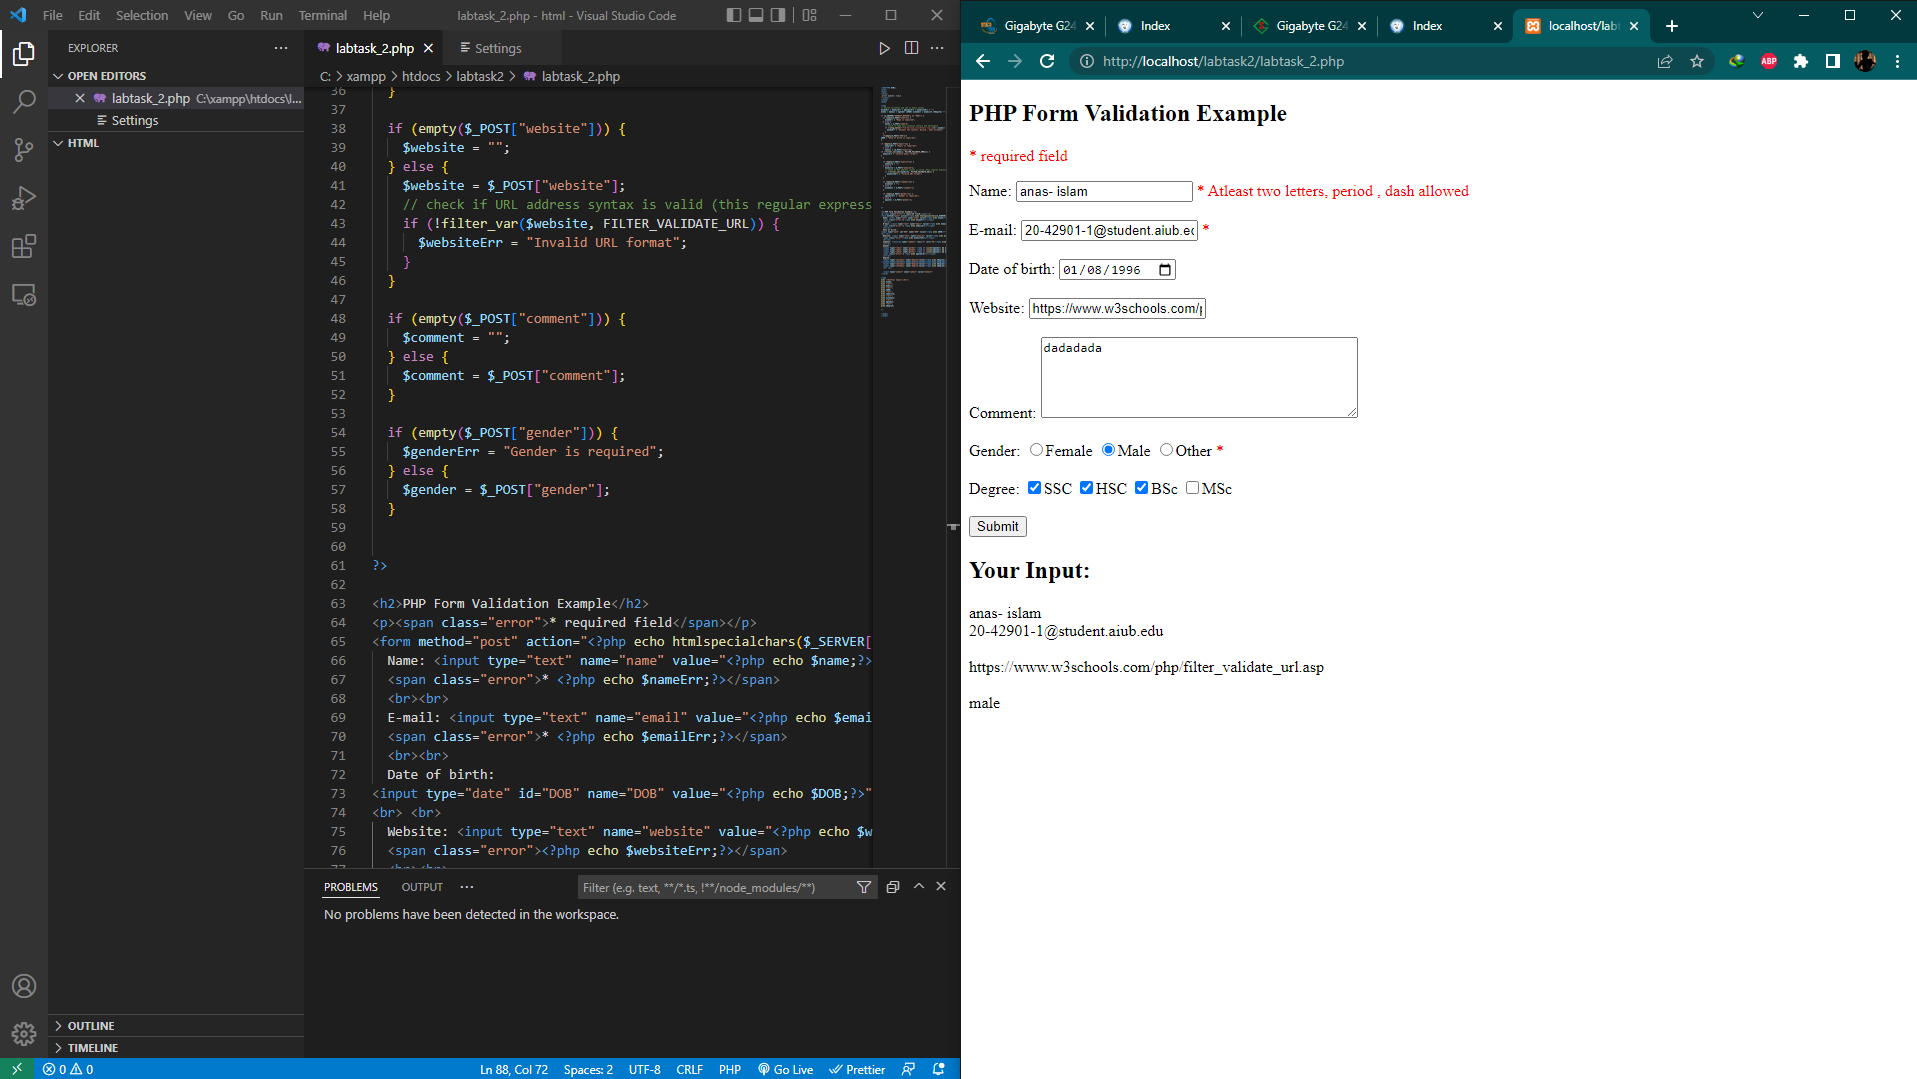
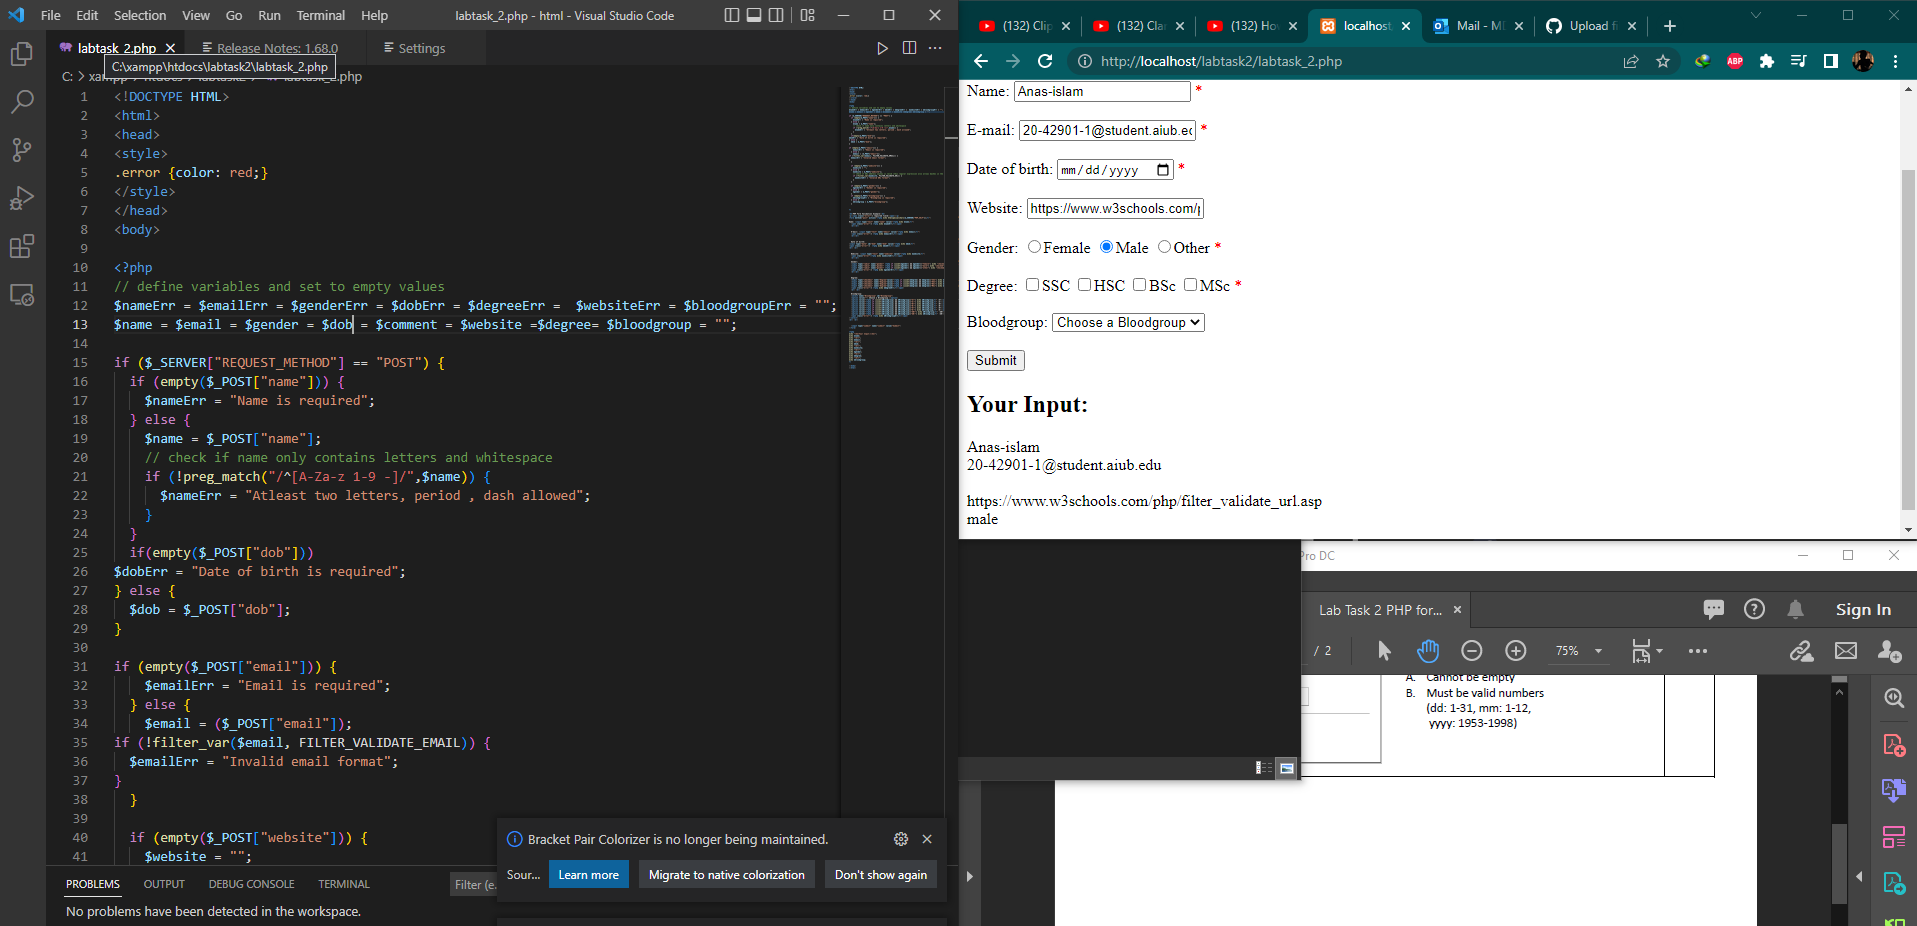
updated labtask 2 .

Changed region(s): [[0.0, 0.0, 1.0, 1.0], [0.3693, 0.3024, 0.4001, 0.3326]]

diff --git a/labtask2/labtask_2.php b/labtask2/labtask_2.php
@@ -9,8 +9,8 @@
 
 <?php
 // define variables and set to empty values
-$nameErr = $emailErr = $genderErr = $websiteErr = "";
-$name = $email = $gender =$DOB= $comment = $website =$Degree= "";
+$nameErr = $emailErr = $genderErr = $dobErr = $degreeErr =  $websiteErr = $bloodgroupErr = "";
+$name = $email = $gender = $dob = $comment = $website =$degree= $bloodgroup = "";
 
 if ($_SERVER["REQUEST_METHOD"] == "POST") {
   if (empty($_POST["name"])) {
@@ -18,12 +18,14 @@ if ($_SERVER["REQUEST_METHOD"] == "POST") {
   } else {
     $name = $_POST["name"];
     // check if name only contains letters and whitespace
-    if (!preg_match("/^[A-Za-z]{2,}(\s[A-Za-z ]{2,})*$/",$name)) {
+    if (!preg_match("/^[A-Za-z 1-9 -]/",$name)) {
       $nameErr = "Atleast two letters, period , dash allowed";
     }
   }
-  if(empty($_POST["DOB"]))
-$DOB = "Date of birth is required";
+  if(empty($_POST["dob"]))
+$dobErr = "Date of birth is required";
+} else {
+  $dob = $_POST["dob"];
 }
   
 if (empty($_POST["email"])) {
@@ -45,16 +47,15 @@ if (!filter_var($email, FILTER_VALIDATE_EMAIL)) {
     }
   }
 
-  if (empty($_POST["comment"])) {
-    $comment = "";
-  } else {
-    $comment = $_POST["comment"];
-  }
-
   if (empty($_POST["gender"])) {
     $genderErr = "Gender is required";
   } else {
     $gender = $_POST["gender"];
+  }
+  if (empty($_POST["bloodgroup"])) {
+    $bloodgroupErr = "Bloodgroup is required";
+  } else {
+    $bloodgroup = $_POST["bloodgroup"];
   }
 
 
@@ -63,32 +64,58 @@ if (!filter_var($email, FILTER_VALIDATE_EMAIL)) {
 <h2>PHP Form Validation Example</h2>
 <p><span class="error">* required field</span></p>
 <form method="post" action="<?php echo htmlspecialchars($_SERVER["PHP_SELF"]);?>">  
-  Name: <input type="text" name="name" value="<?php echo $name;?>">
+  
+Name: <input type="text" name="name" value="<?php echo $name;?>">
   <span class="error">* <?php echo $nameErr;?></span>
   <br><br>
+
+
   E-mail: <input type="text" name="email" value="<?php echo $email;?>">
   <span class="error">* <?php echo $emailErr;?></span>
   <br><br>
+
+
   Date of birth: 
-<input type="date" id="DOB" name="DOB" value="<?php echo $DOB;?>">
+<input type="date" id="dob" name="dob" value="<?php echo $dob;?>">
+<span class="error">*  <?php echo $dobErr;?></span>
 <br> <br>
+
+
   Website: <input type="text" name="website" value="<?php echo $website;?>">
   <span class="error"><?php echo $websiteErr;?></span>
   <br><br>
-  Comment: <textarea name="comment" rows="5" cols="40"><?php echo $comment;?></textarea>
-  <br><br>
+  
   Gender:
   <input type="radio" name="gender" <?php if (isset($gender) && $gender=="female") echo "checked";?> value="female">Female
   <input type="radio" name="gender" <?php if (isset($gender) && $gender=="male") echo "checked";?> value="male">Male
   <input type="radio" name="gender" <?php if (isset($gender) && $gender=="other") echo "checked";?> value="other">Other  
   <span class="error">* <?php echo $genderErr;?></span>
   <br><br>
+
+
   Degree:
-  <Input type="checkbox" name="Degree"value="<?php echo $Degree;?>">SSC 
-  <Input type="checkbox" name="Degree"value="<?php echo $Degree;?>">HSC
-  <Input type="checkbox" name="Degree"value="<?php echo $Degree;?>">BSc
-  <Input type="checkbox" name="Degree"value="<?php echo $Degree;?>">MSc
+  <Input type="checkbox" name="Degree"value="<?php if (isset($degree) && $degree=="SSC") echo $degree;?>">SSC 
+  <Input type="checkbox" name="Degree"value="<?php if (isset($degree) && $degree=="HSC") echo $degree;?>">HSC
+  <Input type="checkbox" name="Degree"value="<?php if (isset($degree) && $degree=="BSc") echo $degree;?>">BSc
+  <Input type="checkbox" name="Degree"value="<?php if (isset($degree) && $degree=="MSc") echo $degree;?>">MSc
+  <span class="error">* <?php echo $degreeErr;?></span>
   <br> <br>
+
+  Bloodgroup:
+  <select name="Bloodgroup" id="Bloodgroup">
+	<option value=""> Choose a Bloodgroup </option>
+	<option value="<?php if (isset($Bloodgroup) && $Bloodgroup=="A+") echo $Bloodgroup;?>" >A+</option>
+	<option value="<?php if (isset($Bloodgroup) && $Bloodgroup=="A-") echo $Bloodgroup;?>" >A-</option>
+	<option value="<?php if (isset($Bloodgroup) && $Bloodgroup=="B+") echo $Bloodgroup;?>" >B+</option>
+  <option value="<?php if (isset($Bloodgroup) && $Bloodgroup=="B-") echo $Bloodgroup;?>" >B-</option>
+  <option value="<?php if (isset($Bloodgroup) && $Bloodgroup=="O+") echo $Bloodgroup;?>" >O+</option>
+  <option value="<?php if (isset($Bloodgroup) && $Bloodgroup=="O-") echo $Bloodgroup;?>" >O-</option>
+  <option value="<?php if (isset($Bloodgroup) && $Bloodgroup=="AB+") echo $Bloodgroup;?>" >AB+</option>
+  <option value="<?php if (isset($Bloodgroup) && $Bloodgroup=="AB-") echo $Bloodgroup;?>" >AB-</option>
+  <span class="error">* <?php echo $BloodgroupErr;?></span>
+</select>
+<br> <br>
+
 
   <input type="submit" name="submit" value="Submit">  
 </form>
@@ -99,16 +126,15 @@ echo $name;
 echo "<br>";
 echo $email;
 echo "<br>";
-echo $DOB;
+echo $dob;
 echo "<br>";
 echo $website;
-echo "<br>";
-echo $comment;
 echo "<br>"; 
 echo $gender;
 echo "<br>";
-echo $Degree;
-
+echo $degree;
+echo "<br>"; 
+echo $bloodgroup;
 ?>
 
 </body>
